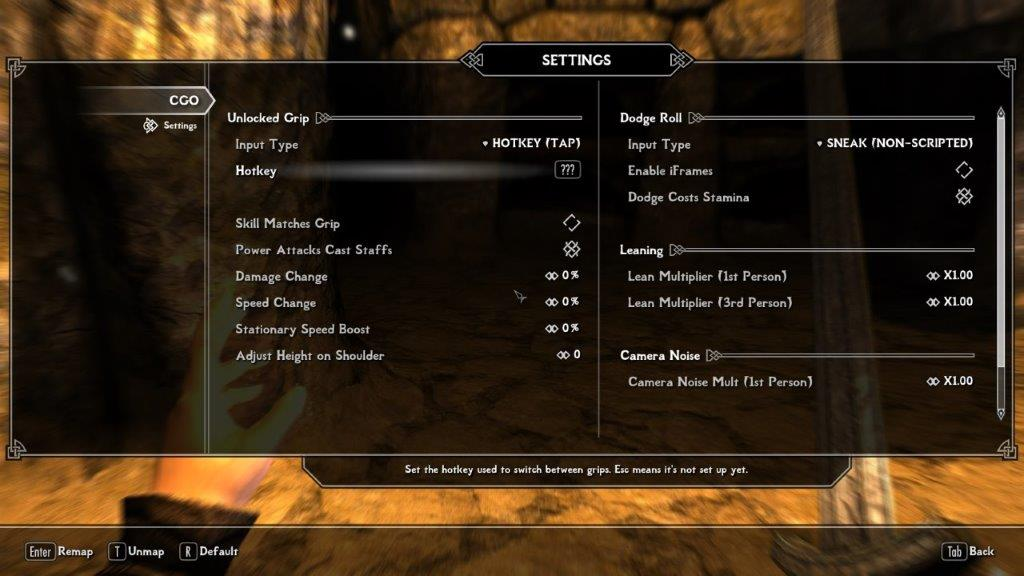
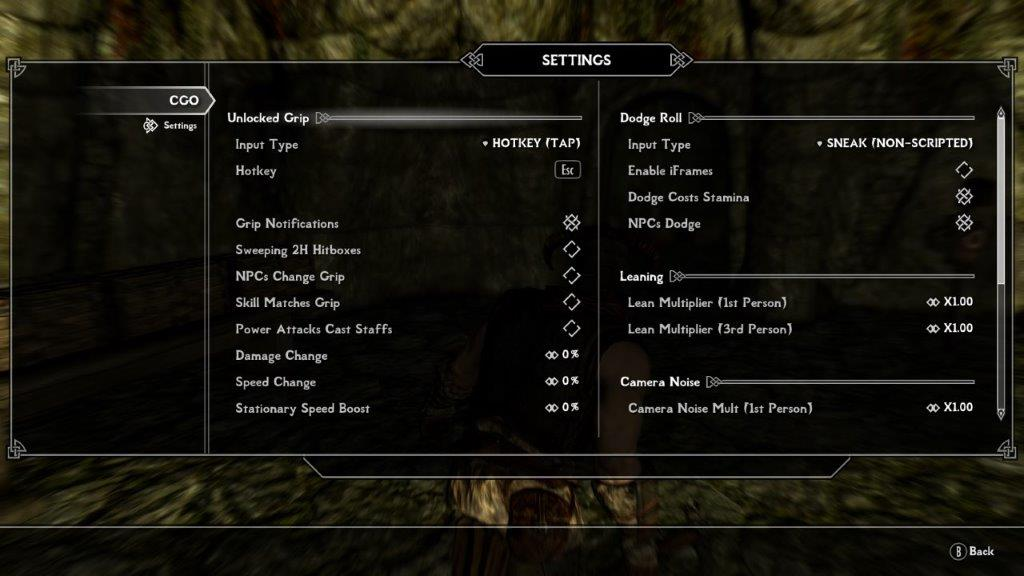
update to 1.3.6

diff --git a/SETUP.md b/SETUP.md
@@ -15,6 +15,11 @@ Always check Discord channel pinned messages, you will find the latest info, pat
 - If you can't dodge roll using CGO, check this [vid](https://youtu.be/RjhS9LvEaSM) for a solution.
 - [More Bandit Camps](https://www.nexusmods.com/skyrimspecialedition/mods/1994) has been tweaked to use a % chance for a bandit to get cloned instead of a fixed multiplier (2x, 3x, 4x, etc). The default value is 40%, so BEWARE of this is you are new to Requiem.
 
+## Current issues v1.3.6
+
+No issues reported yet.
+No Hotfixes requiered for this version yet.
+
 ## Current issues v1.3.5
 
 - Download and extract the content of this [NOIR v1.3.5 - Hotfix](https://drive.google.com/open?id=1Jl6Da2BabbfMwjyQsiBXqC8YR7wQCXoH) in you NOIR installation folder (MO2) and let it overwrite the files. It solves the following:
@@ -53,7 +58,7 @@ If you want to [Experience](https://www.nexusmods.com/skyrimspecialedition/mods/
 
 note: this image is old, your setup could have more or less mods in the optional separator.
 
-If you enable this optional plugins, you need to restore the NOIR loadorder (no the modlist order) in the right pane:
+If you enable this optional plugins, you need to restore the NOIR loadorder (no the modlist order) in the **RIGHT** pane:
 
 ![(restore backup)](images/backup-1.png)
 
@@ -94,6 +99,10 @@ In-Game Date
 
 ![image](images/image9.jpg)
 
+### Ashes 
+
+![image](images/mcm_ashes.jpg)
+
 ### Blocksteal Redux
 
 - Activate - Enable
@@ -104,15 +113,10 @@ In-Game Date
 
 ### CGO
 
-- Input Type - Left untouched (Not compatible with Requiem)
-
-- Hotkey - Press "T" to Unmap
-
-- Skill Matches Grip - Disabled.
-
-Set the boosts for grip change to 0%
+Read the pinned post in WJ Discord for more info.
 
 ![image](images/mcm_cgo.jpg)
+![image](images/mcm_cgo2.jpg)
 
 ### Equipment HUD
 

diff --git a/CHANGELOG.md b/CHANGELOG.md
@@ -1,6 +1,40 @@
 
 # Changelog
 
+## 1.3.6
+
+**Released at**: `May-4-2020`
+
+**Info**:
+Maintenance version due to updated mods. New game required or use ReSaver. See below:
+
+**Changes**:
+
+- Updated CGO to 1.1.0
+- Updated Baka Haeun UNP to 1.77
+- Enabled Cathedral Waters plugin in right pane (plugins.txt)
+- Fixed female jarls sitting animation (Nemesis Output)
+- Fixed black face bug for Olfina Gray-Mane
+- Fixed door from Skyrim Unlocked overlapping layout from Obscure College of Winterhold
+- Fixed Water Level bug in Riften
+- Lower default chance of spawn cloned Bandits in MVB from 40% to 10%
+- Updated Requiem - Small Tweaks (contains):
+  - "Requiem_Alduin_redone.esp",
+  - "Requiem_knockdown_patch.esp",
+  - "Requiem_npc_statefix.esp",
+  - "Requiem_VampireCollection.esp"
+
+- Updated Requiem - Noxcrab's Tweask (contains):
+  - "Requiem - Automaton Resistance Tweak.esp",
+  - "Requiem - Battlestaves Redone.esp",
+  - "Requiem - Craftable Items.esp",
+  - "Requiem - Destruction Touch Spells.esp",
+  - "Requiem - Dragon Resistance Tweak.esp",
+  - "Requiem - Enemy Regeneration Tweak.esp",
+  - "Requiem - Illusion Redone.esp",
+  - "Requiem - Scroll Crafting.esp"
+
+
 ## 1.3.5
 
 **Released at**: `Apr-26-2020`
